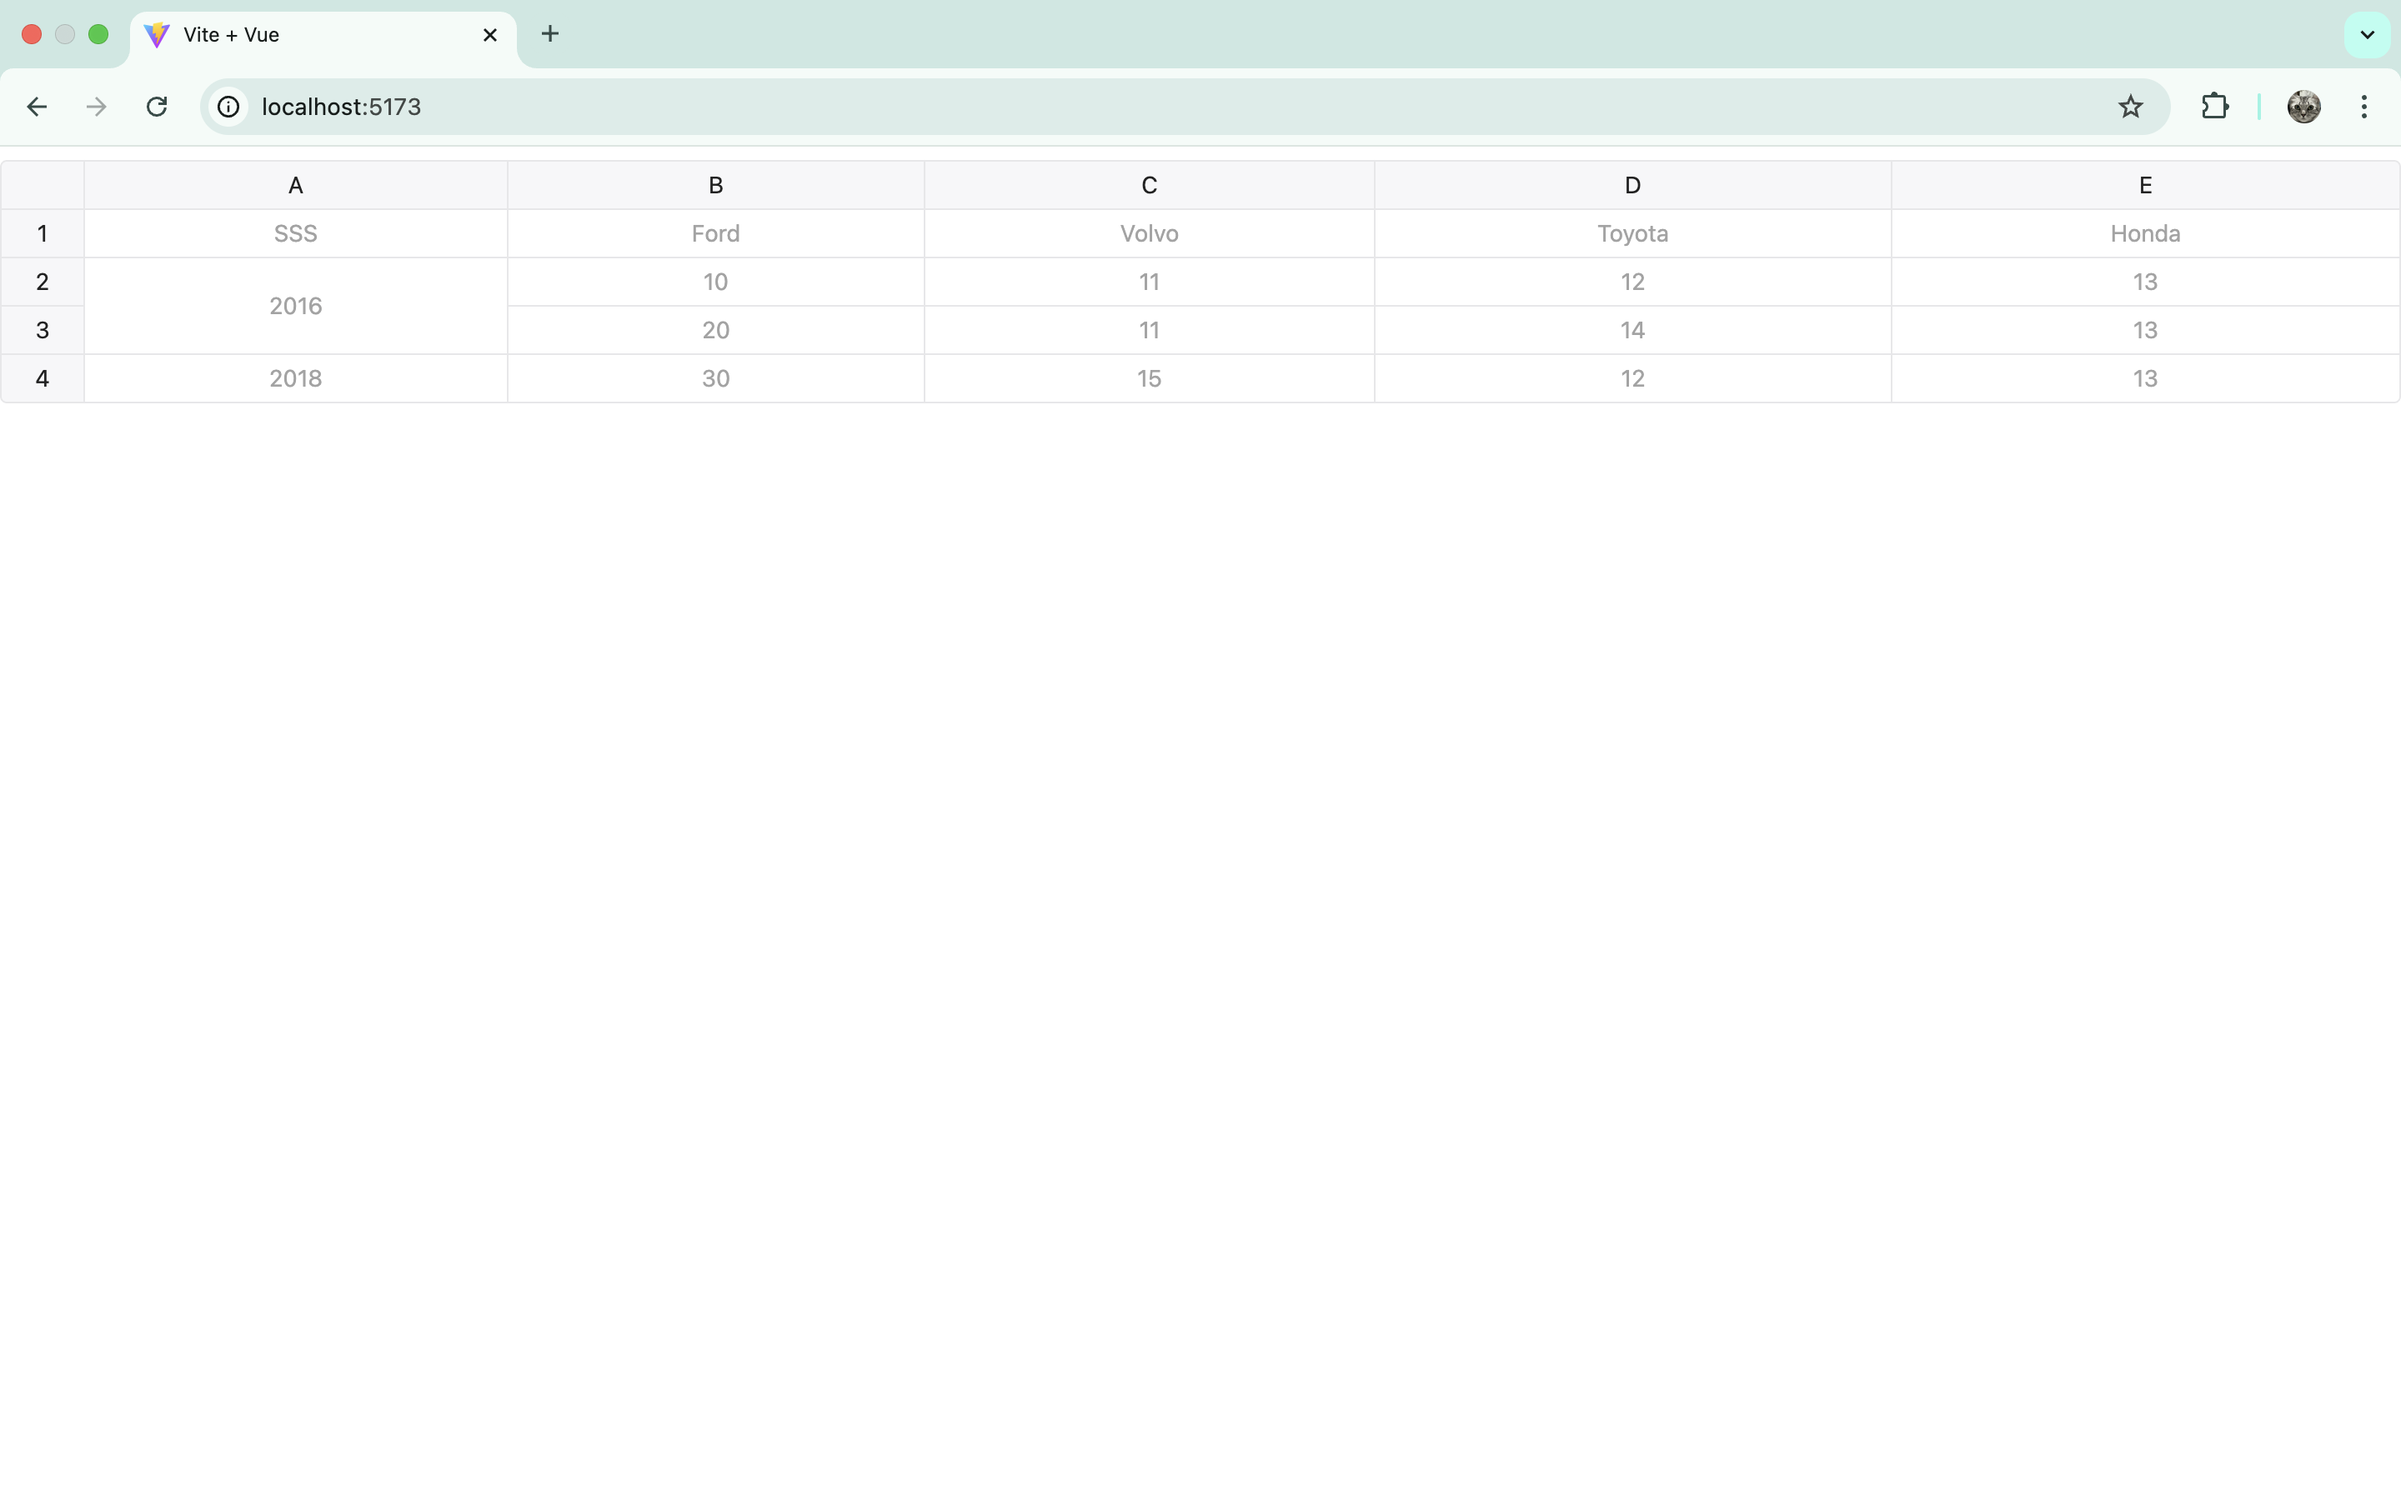
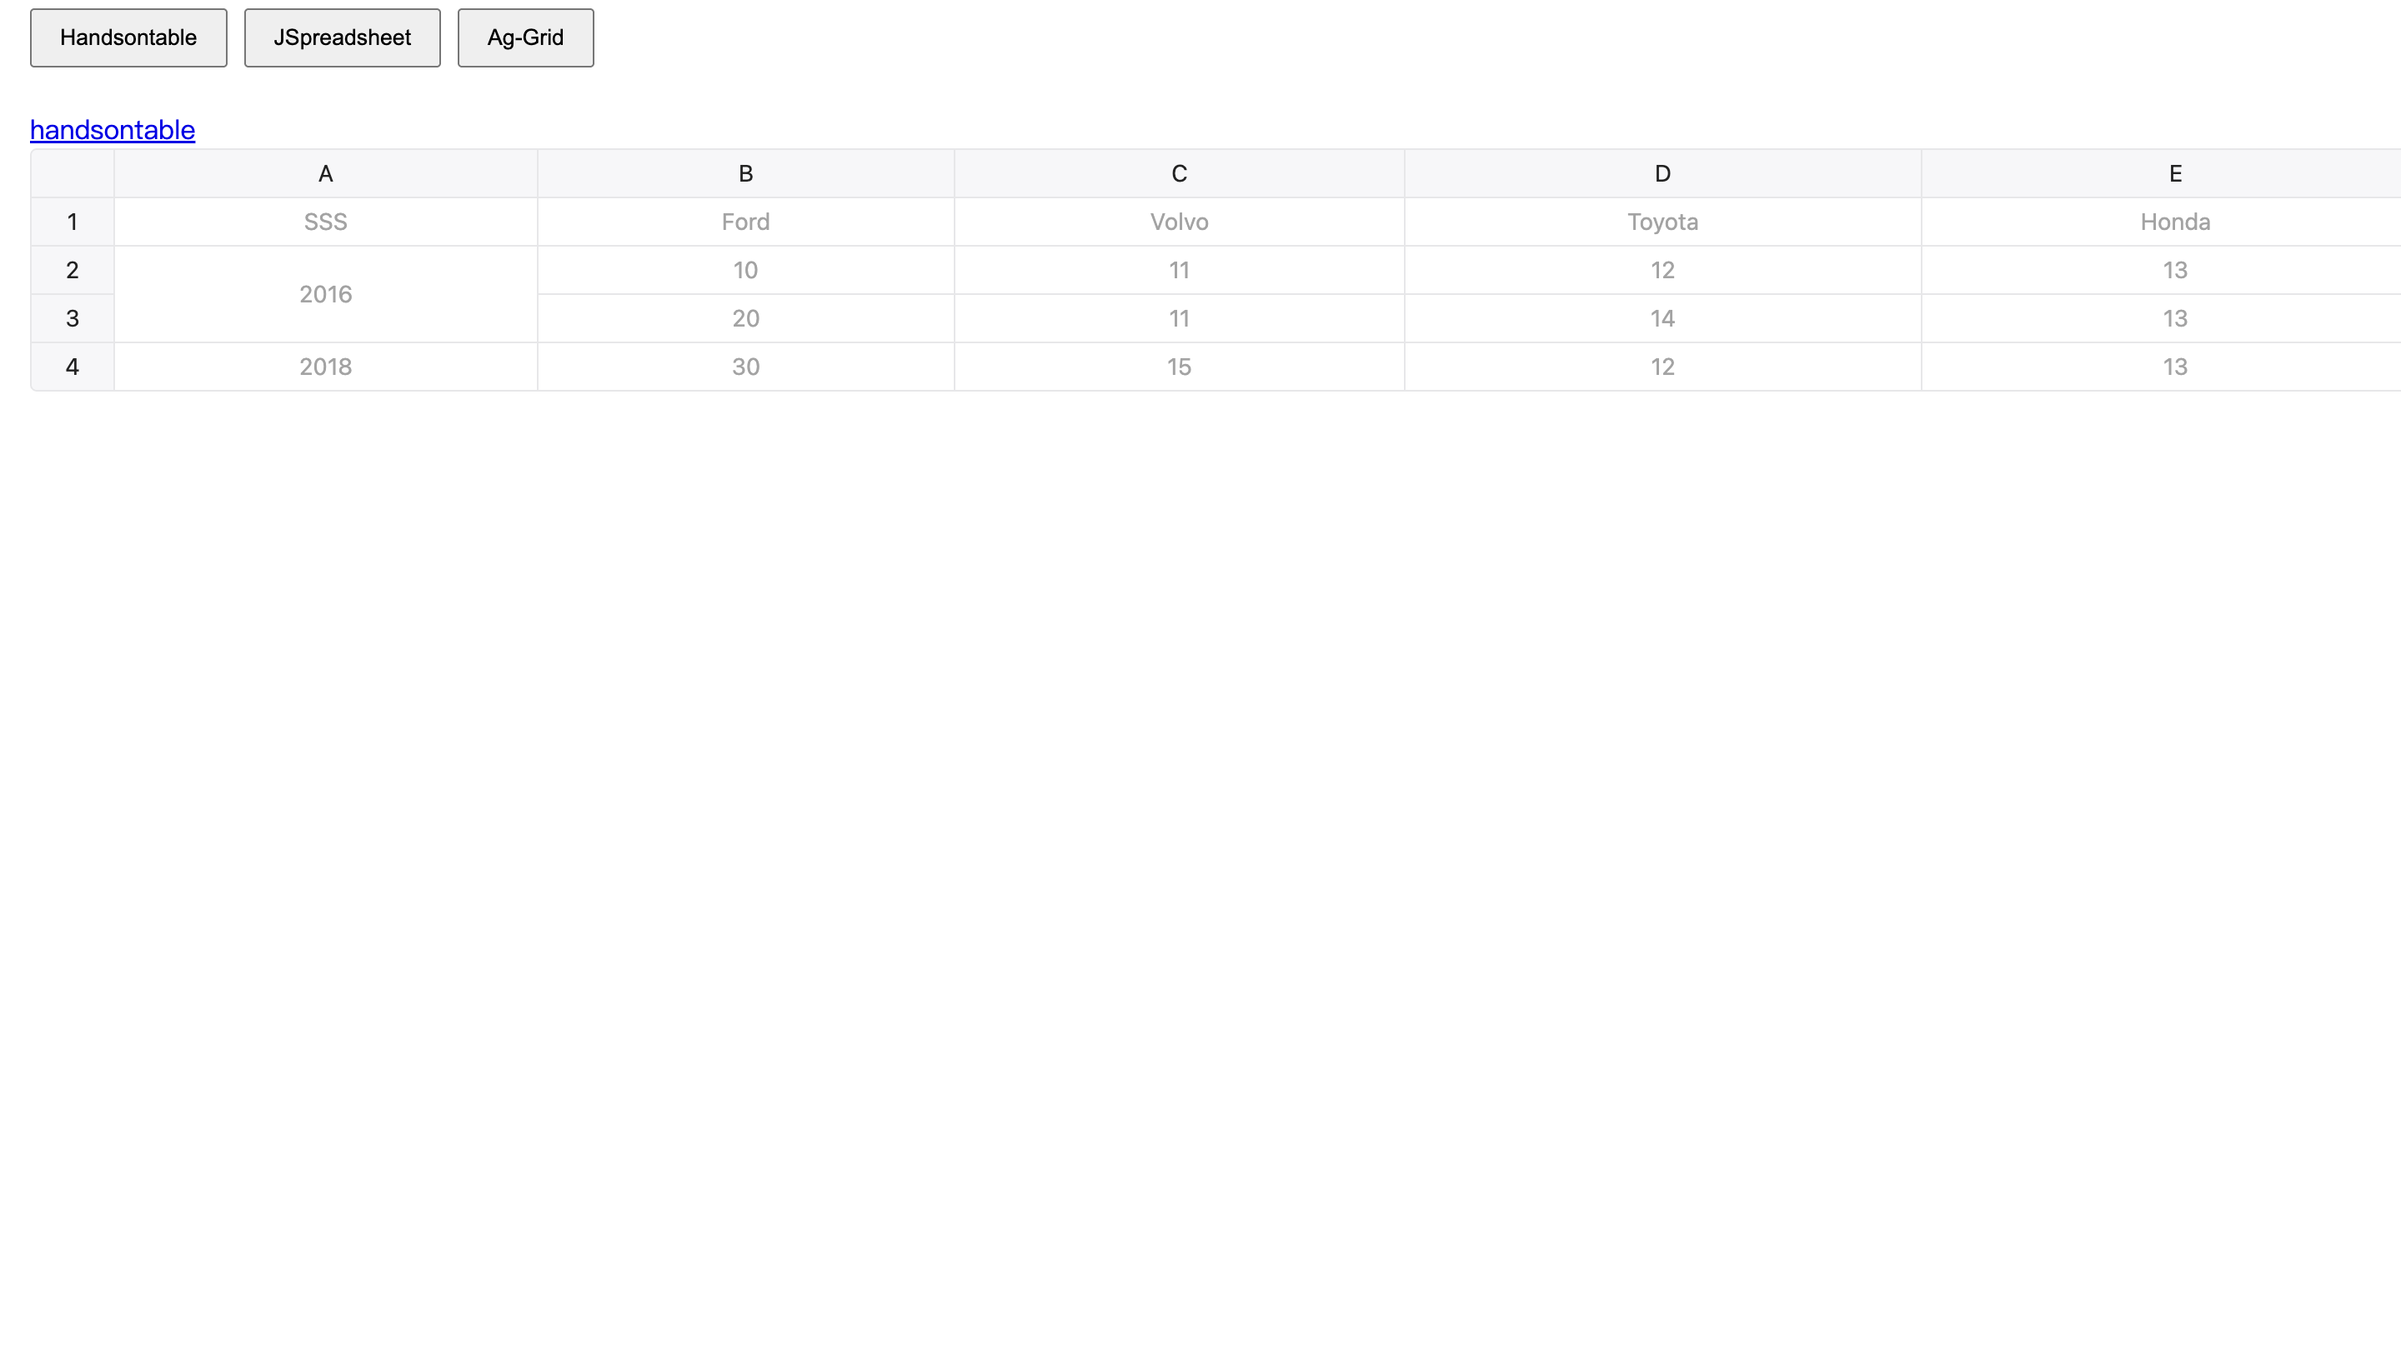
docs

diff --git a/src/router/index.js b/src/router/index.js
@@ -4,6 +4,17 @@ const router = createRouter({
   history: createWebHashHistory(),
   routes: [
     {
+      path: "/",
+      redirect: { path: "/handsontable" },
+    },
+    {
+      path: "/handsontable",
+      component: () => import("@/handsontable"),
+      meta: {
+        title: "handsontable",
+      },
+    },
+    {
       path: "/ag-grid",
       component: () => import("@/ag-grid"),
       meta: {
@@ -16,14 +27,6 @@ const router = createRouter({
       component: () => import("@/jspreadsheet-ce"),
       meta: {
         title: "jspreadsheet-ce",
-      },
-    },
-
-    {
-      path: "/handsontable",
-      component: () => import("@/handsontable"),
-      meta: {
-        title: "handsontable",
       },
     },
   ],

diff --git a/README.md b/README.md
@@ -1,4 +1,3 @@
-下面是一个简洁明了的 `README.md` 示例，适合描述你这个项目的用途和结构：
 
 ---
 
@@ -10,46 +9,16 @@
 - ✅ [**JSpreadsheet**](https://jspreadsheet.com/)
 - ✅ [**Ag-Grid**](https://www.ag-grid.com/)
 
-### 📌 项目结构
-
-- `/handsontable` - 使用 Handsontable 渲染交互表格
-- `/spreadsheet` - 使用 JSpreadsheet 渲染电子表格样式界面
-- `/ag-grid` - 使用 Ag-Grid 展示强大表格功能
-
 ### 🚀 快速开始
 
 ```bash
-# 安装依赖
 pnpm install
 
-# 运行项目
 pnpm run dev
 ```
 
-### 📺 访问页面
+### 📺 项目截图
 
-页面按钮位于首页：
-
-```html
-<button @click="goTo('/handsontable')">Handsontable</button>
-<button @click="goTo('/spreadsheet')">JSpreadsheet</button>
-<button @click="goTo('/ag-grid')">Ag-Grid</button>
-```
-
-点击对应按钮可查看每个表格组件的基础使用效果。
+![项目截图](screenshot/image.png)
 
 ---
-
-### 🤔 适用场景建议
-
-| 组件         | 特点                           | 适用场景               |
-| ------------ | ------------------------------ | ---------------------- |
-| Handsontable | Excel 风格、功能强、商用需付费 | 高级交互编辑表格       |
-| JSpreadsheet | 轻量、简单、免费版功能有限     | 简单数据录入、快速原型 |
-| Ag-Grid      | 功能全面、灵活、性能优秀       | 大规模数据展示、企业级 |
-
----
-
-如需添加新组件或深入功能对比，可扩展各子页面逻辑。
-
-是否需要我继续帮你写这三个子页面的 Markdown 使用说明？
